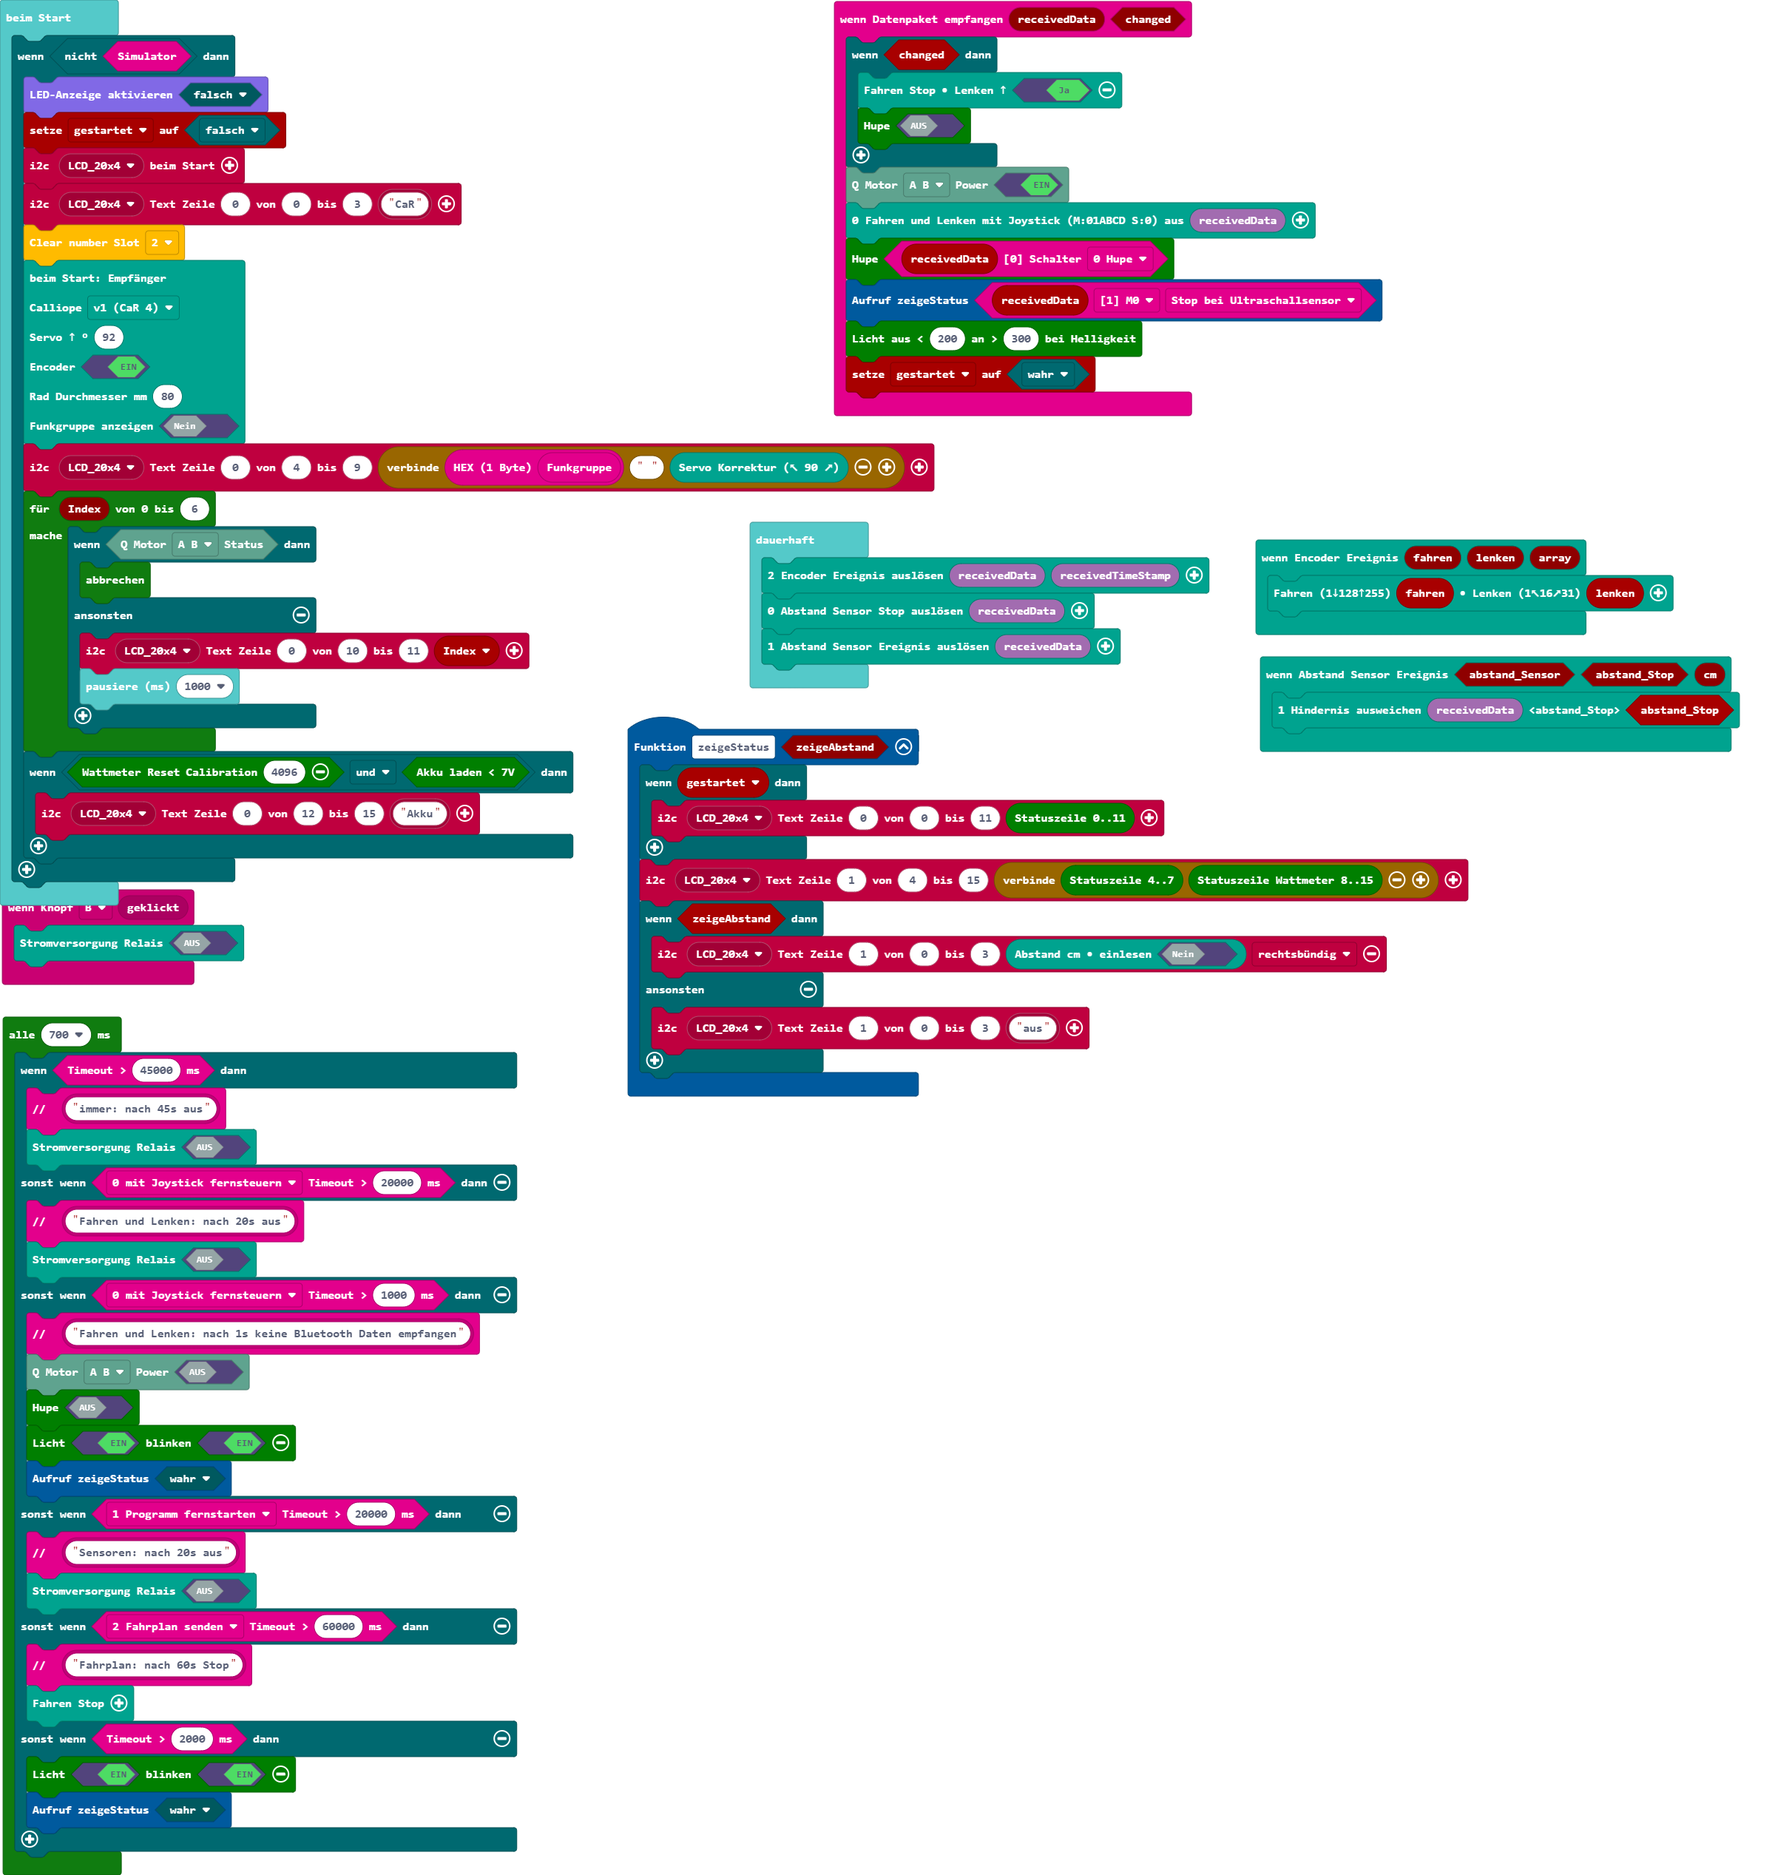
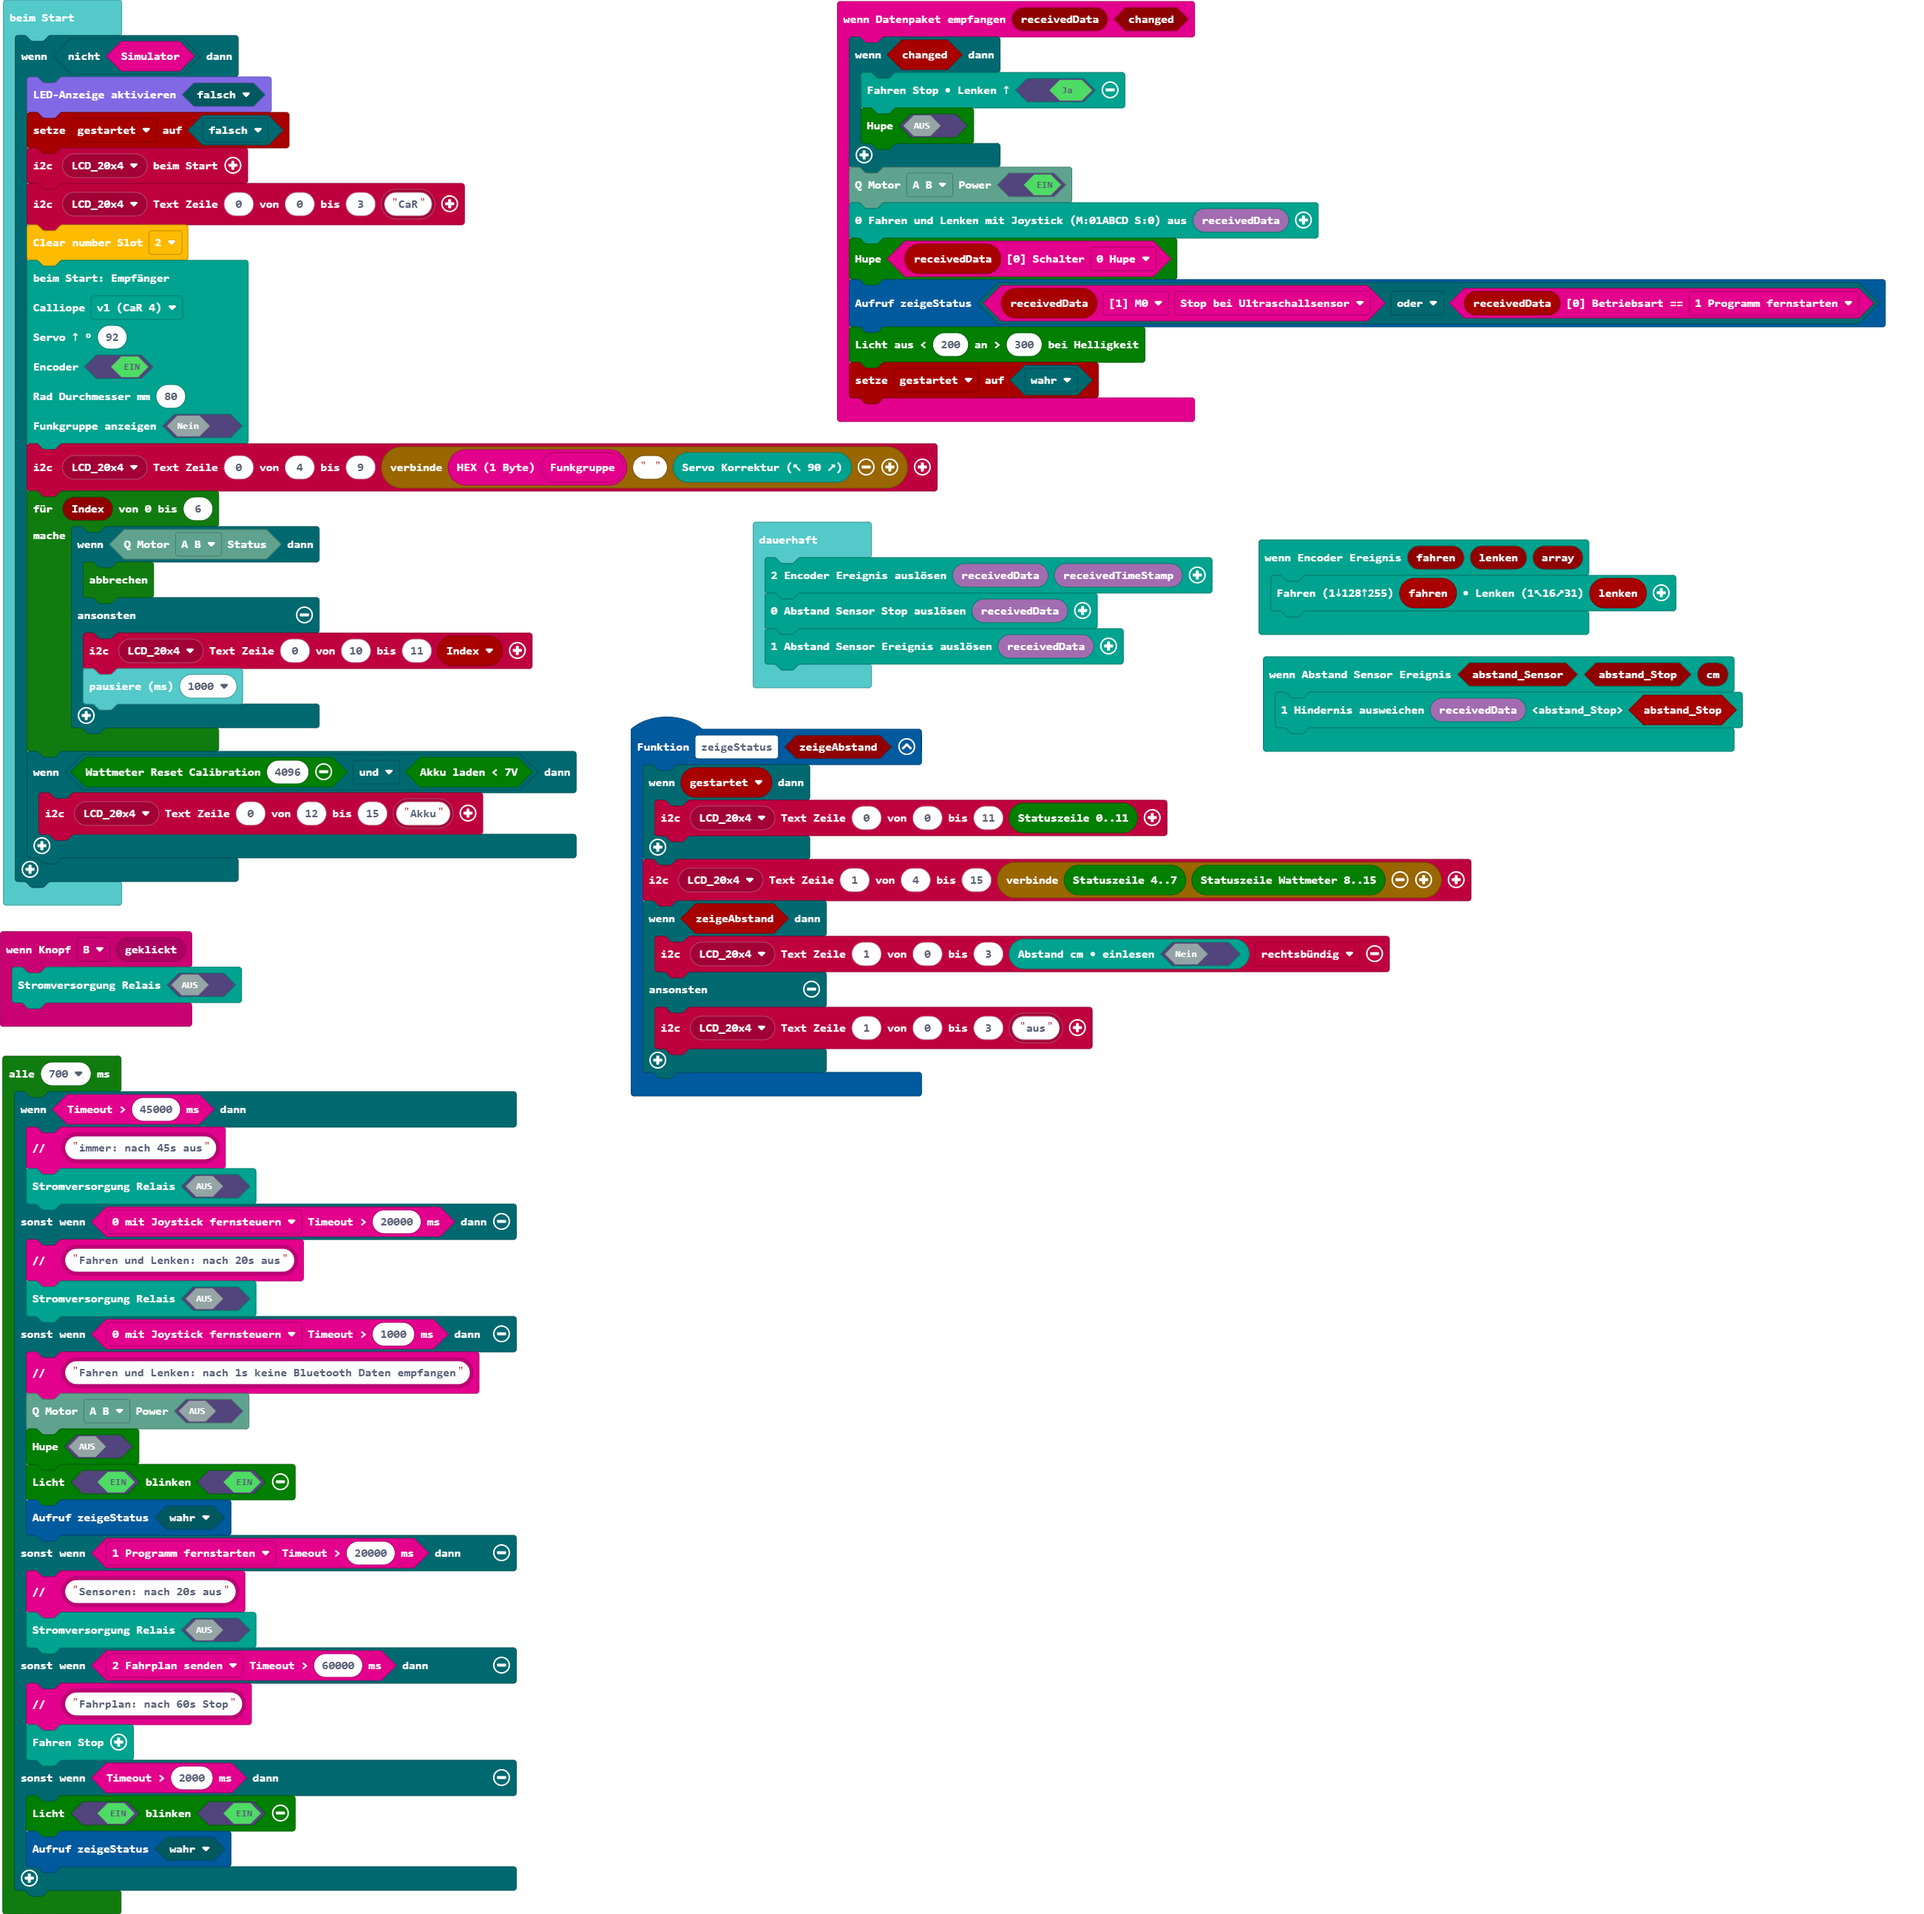
Aktualisiere main.blocks, main.ts

Changed region(s): [[0.0, 0.0, 0.9983, 1.0], [0.2496, 0.9661, 0.312, 0.9972]]

diff --git a/main.ts b/main.ts
@@ -26,7 +26,7 @@ btf.onReceivedDataChanged(function (receivedData, changed) {
     receiver.qwiicMotorChipPower(receiver.eQwiicMotorChip.ab, true)
     receiver.fahreJoystick(btf.btf_receivedBuffer19())
     car.buzzer(btf.getSchalter(receivedData, btf.e0Schalter.b0))
-    zeigeStatus(btf.getSensor(receivedData, btf.eBufferPointer.m0, btf.eSensor.b6Abstand))
+    zeigeStatus(btf.getSensor(receivedData, btf.eBufferPointer.m0, btf.eSensor.b6Abstand) || btf.isBetriebsart(receivedData, btf.e0Betriebsart.p1Lokal))
     car.licht_sensor(200, 300)
     gestartet = true
 })
